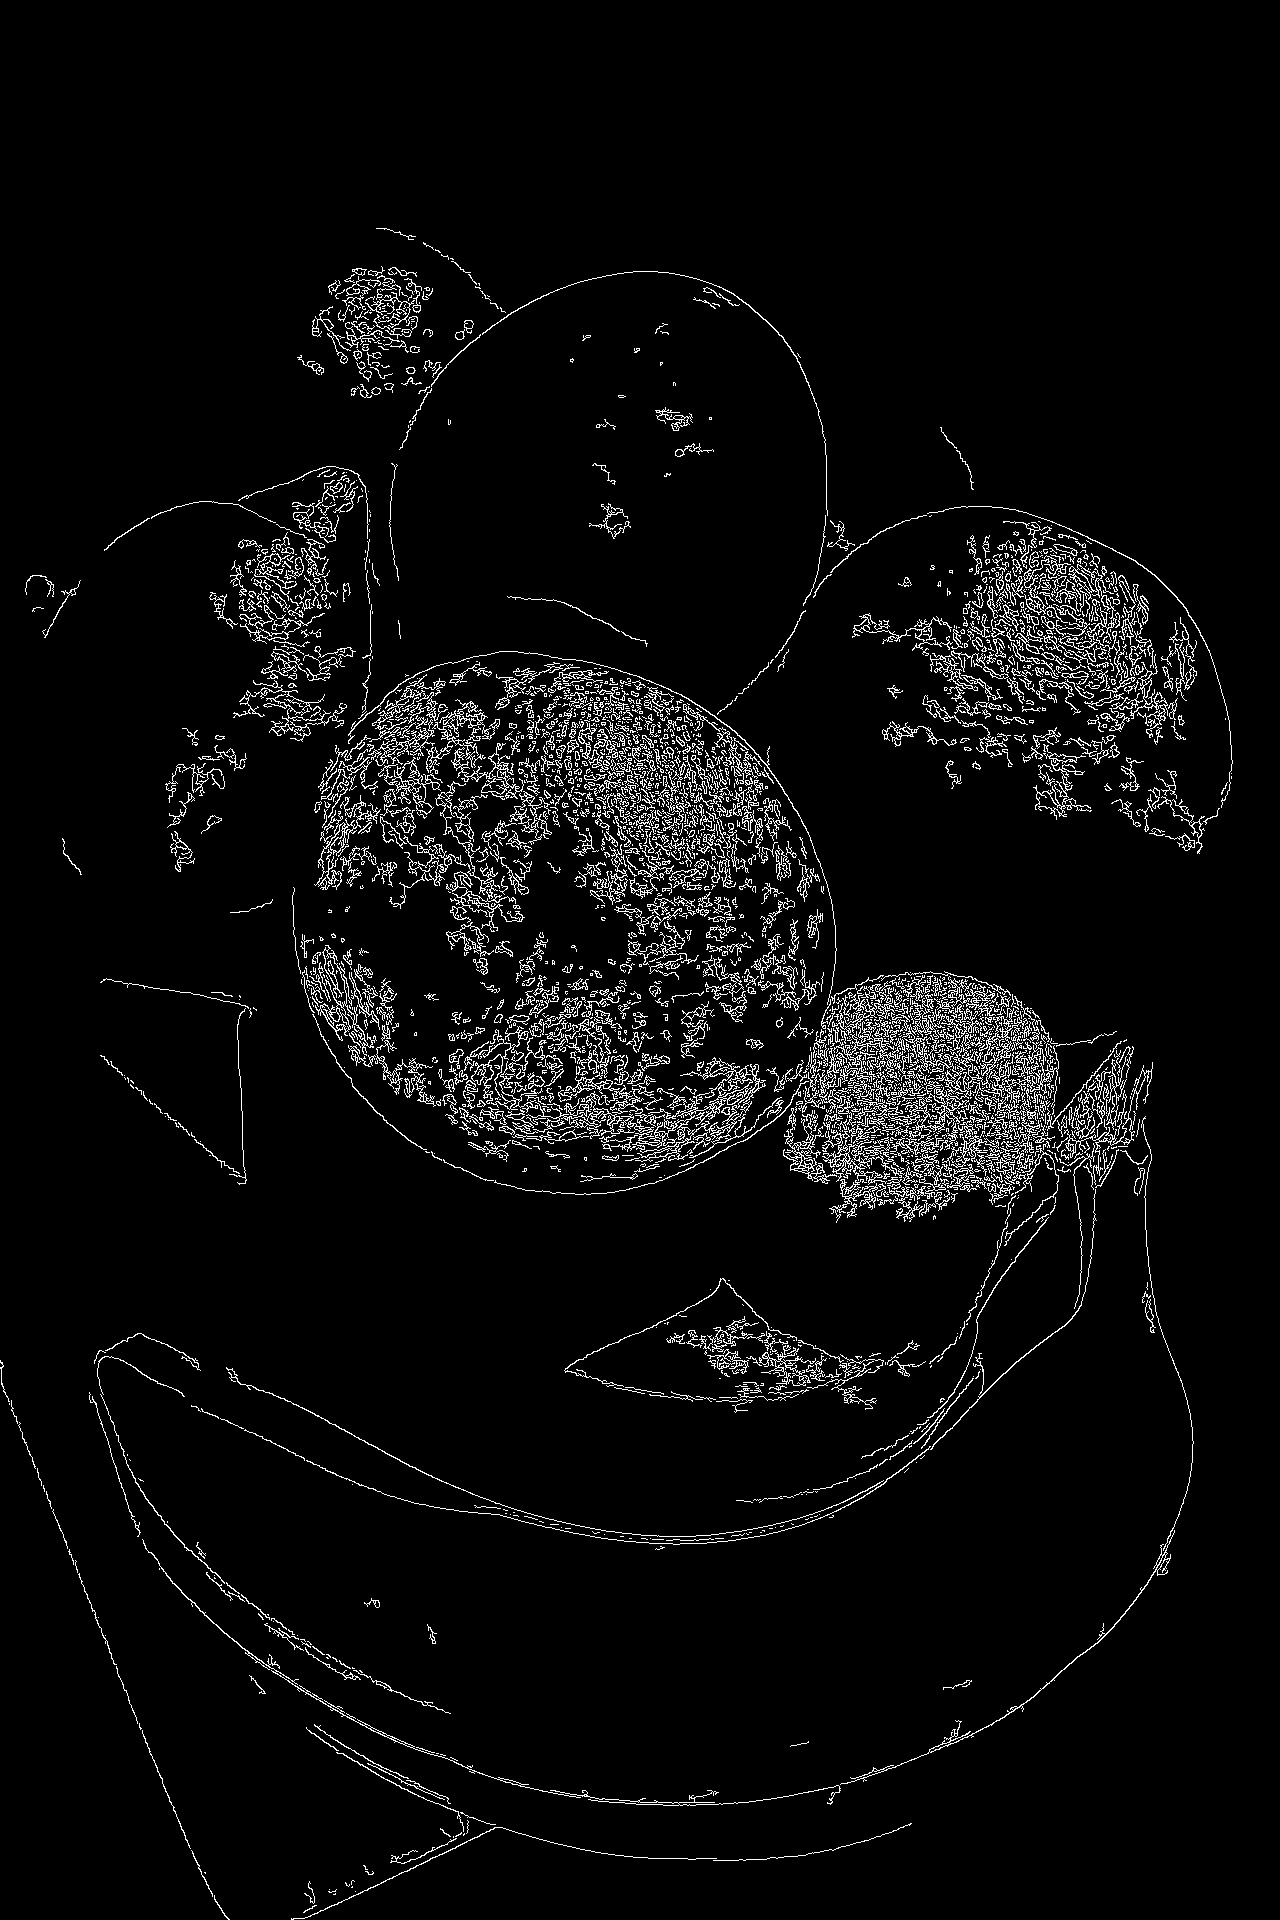
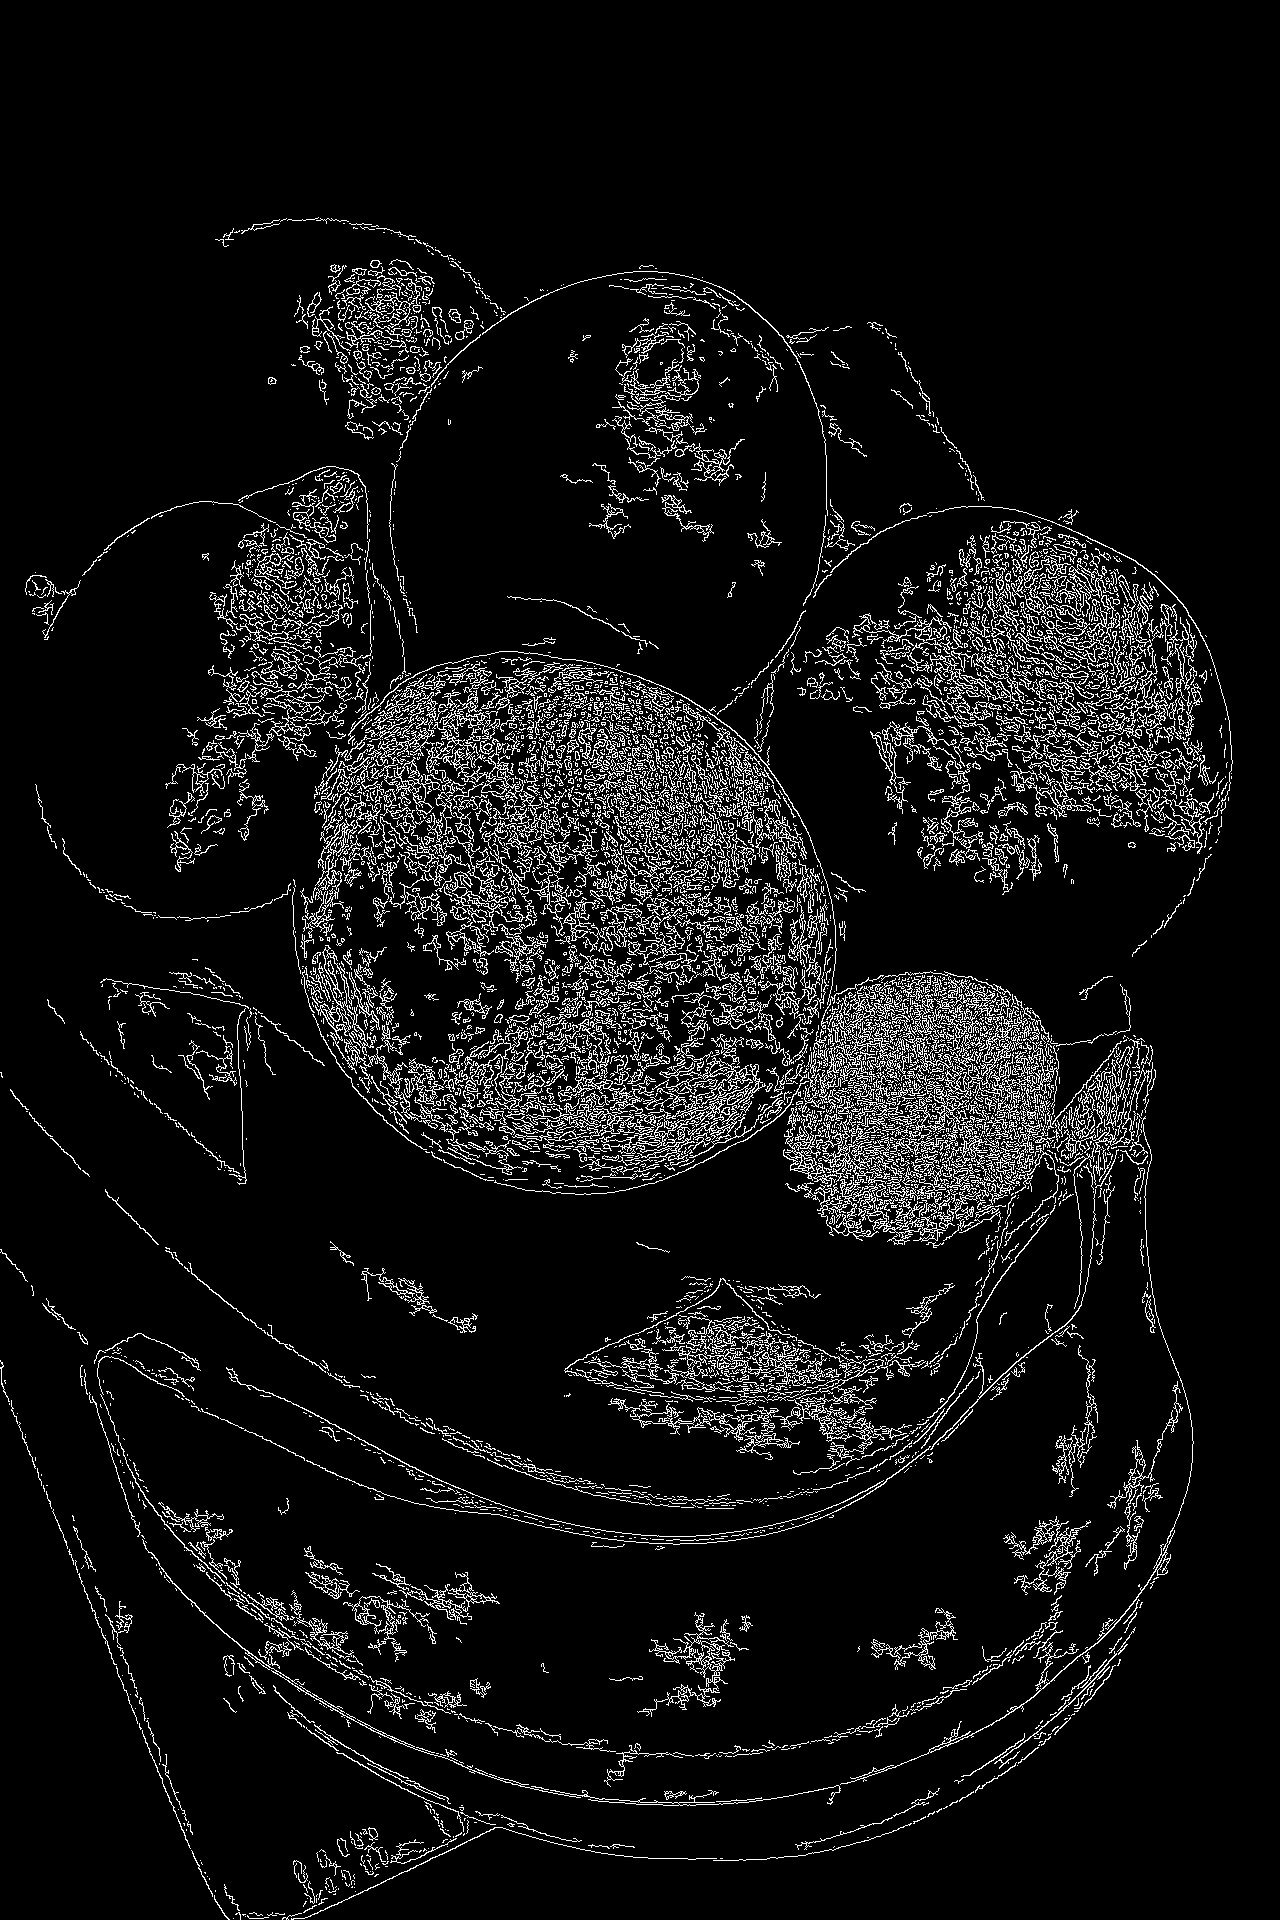
ultralytics패키지+ (Visual C++ 2015-2022재배포가능패키지) 설치

diff --git a/d25_photo/y1_first_yolo.py b/d25_photo/y1_first_yolo.py
@@ -1,0 +1,17 @@
+from ultralytics import YOLO            # ultralytics 꾸러미에서 YOLO 설계도 하나를 꺼낸다
+
+# ---- 내가 바꾸는 값 ----
+PHOTO = "dog.jpg"                       # 같은 폴더에 있는 사진 이름 (따옴표 안의 이름만 바꾼다)
+
+model = YOLO("yolo26n.pt")              # 설계도 YOLO 로 model 을 만든다 : yolo26n.pt 는 이미 배워 둔 결과 파일 (처음 한 번만 내려받는다)
+results = model(PHOTO)                  # model 에 사진을 건네면 YOLO 의 답 묶음(results)이 돌아온다
+result = results[0]                     # 사진 한 장을 넣었으니 답도 첫째(0번) 하나만 꺼낸다
+
+print("찾은 물체의 개수 :", len(result.boxes))   # boxes 는 찾은 물체들의 목록 : 길이 = 물체 개수
+for box in result.boxes:                # 찾은 물체(네모)를 하나씩 꺼내 box 에 넣고 아래 세 줄을 되풀이한다
+    name = result.names[int(box.cls[0])]        # box.cls[0] 은 이름의 번호(16.0) → int 로 정수 16 → names 에서 이름 dog 를 찾는다
+    confidence = float(box.conf[0])             # box.conf[0] 은 자신감 : float 로 소수(0 ~ 1)로 바꾼다
+    print(name, round(confidence, 2))           # 이름과 자신감을 소수 둘째 자리까지 보여 준다
+
+result.save("yolo_result.jpg")          # 네모를 그린 사진을 yolo_result.jpg 파일로 저장한다
+print("yolo_result.jpg 로 저장했다")

diff --git a/d25_photo/y0_check.py b/d25_photo/y0_check.py
@@ -1,0 +1,11 @@
+# y0_check.py : ultralytics 가 설치되었는지 점검한다 (읽지 않고 실행만 하면 된다)
+import sys                                   # 파이썬 자신의 정보를 담은 도구 꾸러미
+
+print("파이썬 버전 :", sys.version.split()[0])   # 파이썬 버전 글자에서 맨 앞 낱말(예 : 3.12.10)만 보여 준다
+
+import ultralytics                           # 설치한 ultralytics 를 불러온다 (설치가 안 되었으면 여기서 빨간 오류가 난다)
+print("ultralytics 버전 :", ultralytics.__version__)   # ultralytics 의 버전을 보여 준다
+
+import torch                                 # ultralytics 가 계산에 쓰는 torch 를 불러온다
+print("torch 버전 :", torch.__version__)      # torch 의 버전을 보여 준다
+print("점검 끝 : 세 줄이 모두 나오면 설치가 된 것이다")

diff --git a/d24_photo/y_edge.py b/d24_photo/y_edge.py
@@ -2,8 +2,8 @@ import cv2
 
 # ---- 내가 바꾸는 값 ----
 PHOTO = "fruit.jpg"                       # 같은 폴더에 있는 사진 이름
-LOW = 5                              # 윤곽선 후보로 받아 주는 가장 약한 기준 (작을수록 윤곽이 많아진다)
-HIGH = 120                              # 확실한 윤곽선이라고 보는 기준 (LOW 보다 크게 쓴다)
+LOW = 10                              # 윤곽선 후보로 받아 주는 가장 약한 기준 (작을수록 윤곽이 많아진다)
+HIGH = 70                              # 확실한 윤곽선이라고 보는 기준 (LOW 보다 크게 쓴다)
 
 img = cv2.imread(PHOTO)                 # 사진 파일을 숫자표로 읽는다 (D22 에서 본 숫자표와 같다)
 height = img.shape[0]                   # 숫자표의 세로 칸 수

diff --git a/d25_photo/사진_출처.md b/d25_photo/사진_출처.md
@@ -1,0 +1,16 @@
+# 연습 사진 출처·라이선스 (Wikimedia Commons)
+
+수업(영상 AI 체험)에서 쓰는 사진입니다. 라이선스는 Wikimedia Commons API 로 확인했습니다(2026-10-27). 슬라이드에 쓸 때는 출처를 함께 적습니다.
+
+| 파일 | 내용 | 라이선스 | 저작자 | 원본 페이지 |
+|---|---|---|---|---|
+| `street.jpg` | 거리(보행자) | CC BY-SA 4.0 | U0894629 | https://commons.wikimedia.org/wiki/File:Street_hongdae_Seoul.jpg |
+| `cat.jpg` | 고양이 (가운데를 4:3 으로 잘라 사용) | CC BY 2.5 | Marie-Lan Nguyen | https://commons.wikimedia.org/wiki/File:Golden_tabby_and_white_kitten_n01.jpg |
+| `dog.jpg` | 강아지 | CC BY-SA 4.0 | Kristjan S. | https://commons.wikimedia.org/wiki/File:German_Shepherd_Dog,_Puppy,_5_months,_Portrait.jpg |
+| `desk.jpg` | 책상(노트북·컵) | CC0 | Lauren Mancke | https://commons.wikimedia.org/wiki/File:Laptop_and_coffee_on_a_desk.jpg |
+| `fruit.jpg` | 과일 | CC BY-SA 4.0 | Marc-Lautenbacher | https://commons.wikimedia.org/wiki/File:Fruit_plate_with_fresh_fruits.jpg |
+| `moto.jpg` | 오토바이 도로 | CC BY-SA 1.0 | Koika | https://commons.wikimedia.org/wiki/File:Motorcycles_in_Taipei.JPG |
+| `drone.jpg` | 드론 | CC BY-SA 4.0 | Project Kei | https://commons.wikimedia.org/wiki/File:Quadcopter_Drone_in_flight.jpg |
+| `zoo.jpg` | 동물원(기린·얼룩말) | CC BY-SA 2.0 | Elliott Brown from Birmingham, United Kingdom | https://commons.wikimedia.org/wiki/File:Zoo_de_Lyon_-_giraffe_and_zebra_(35019267520).jpg |
+
+CC BY-SA 는 저작자 표시와 같은 조건의 공유를 요구합니다. 사진은 가로 1280px 로 줄인 사본입니다.
